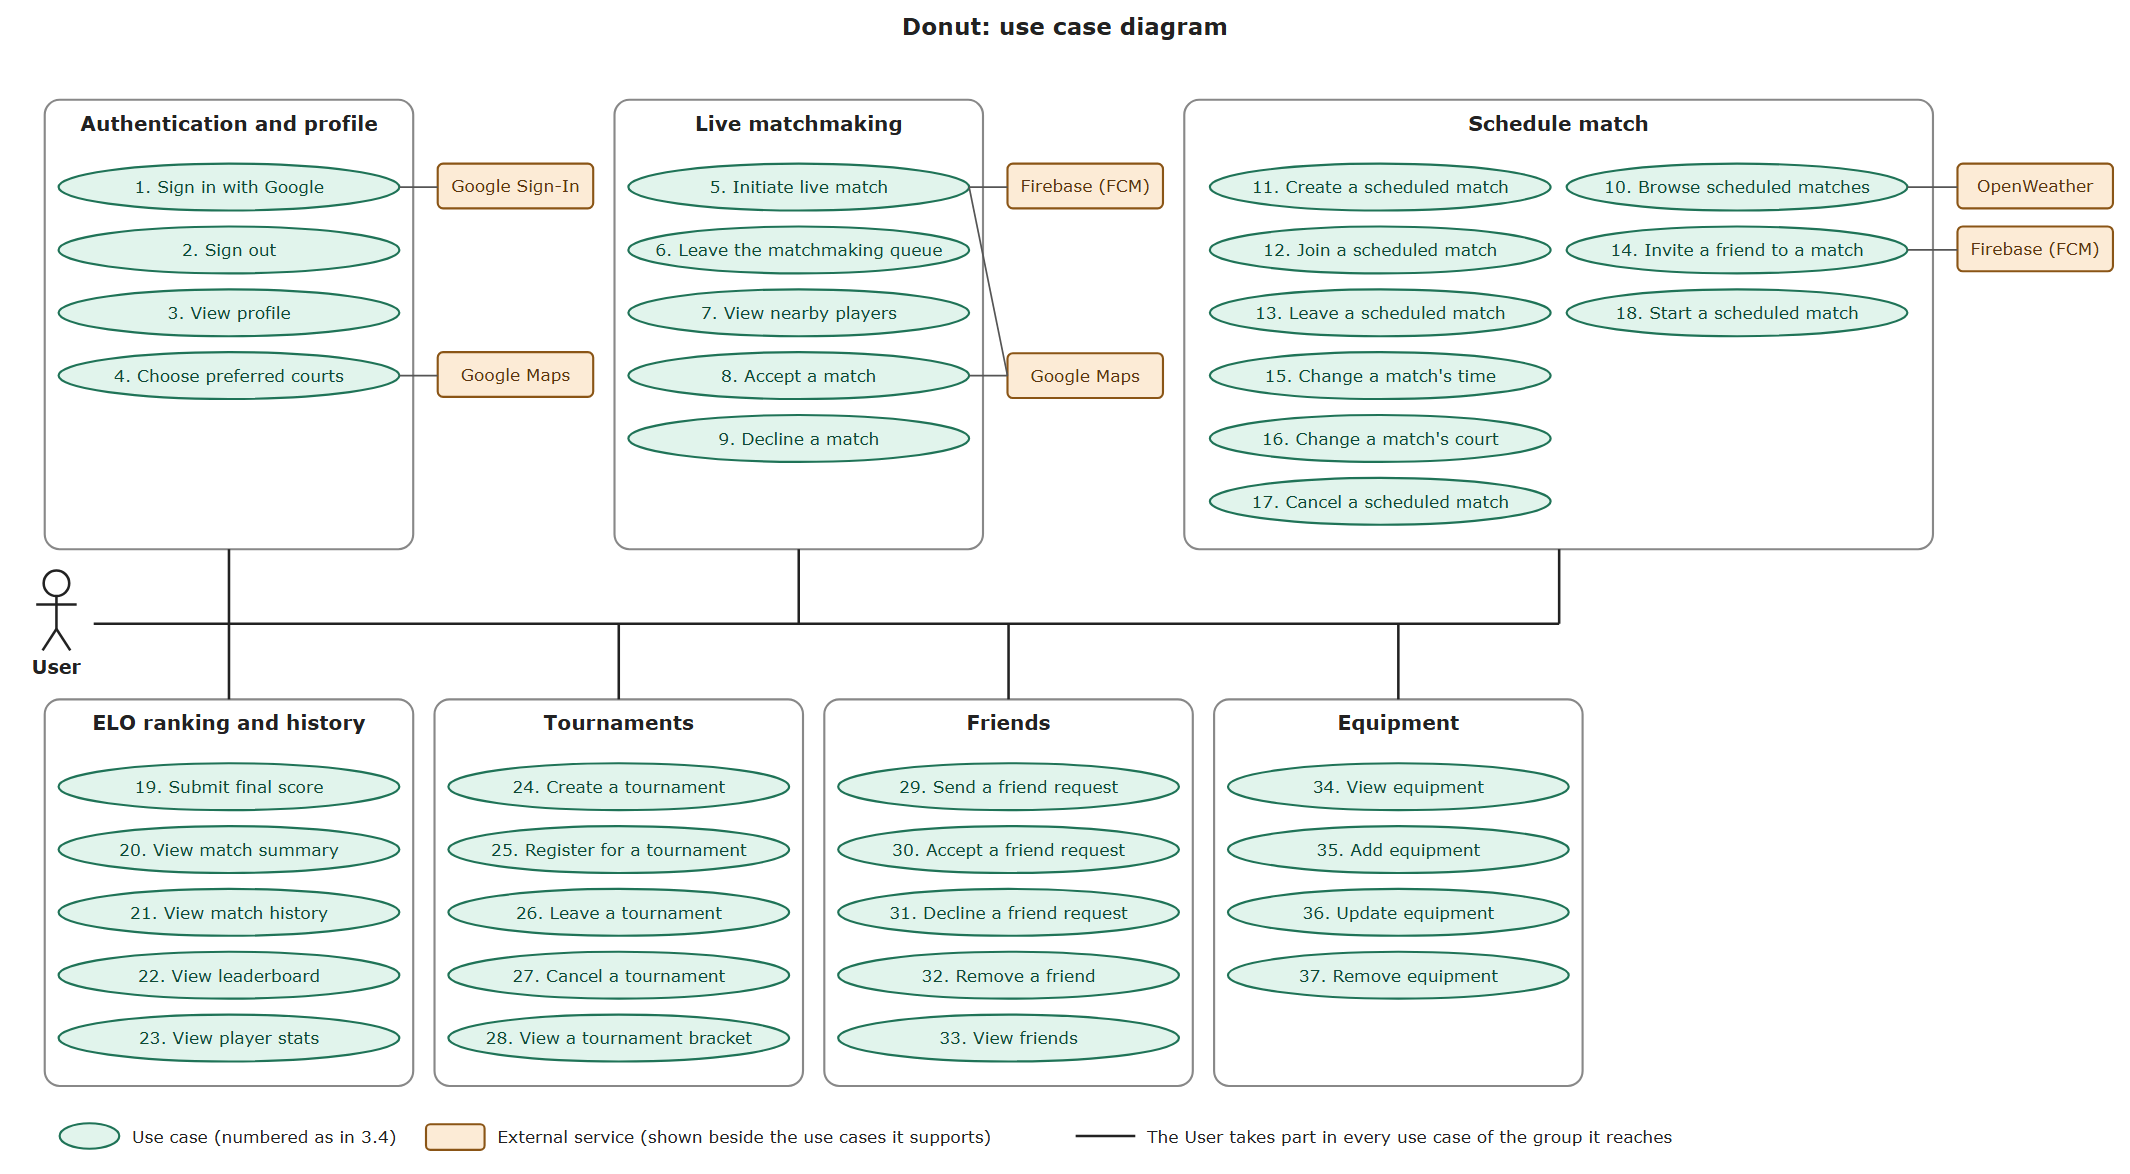
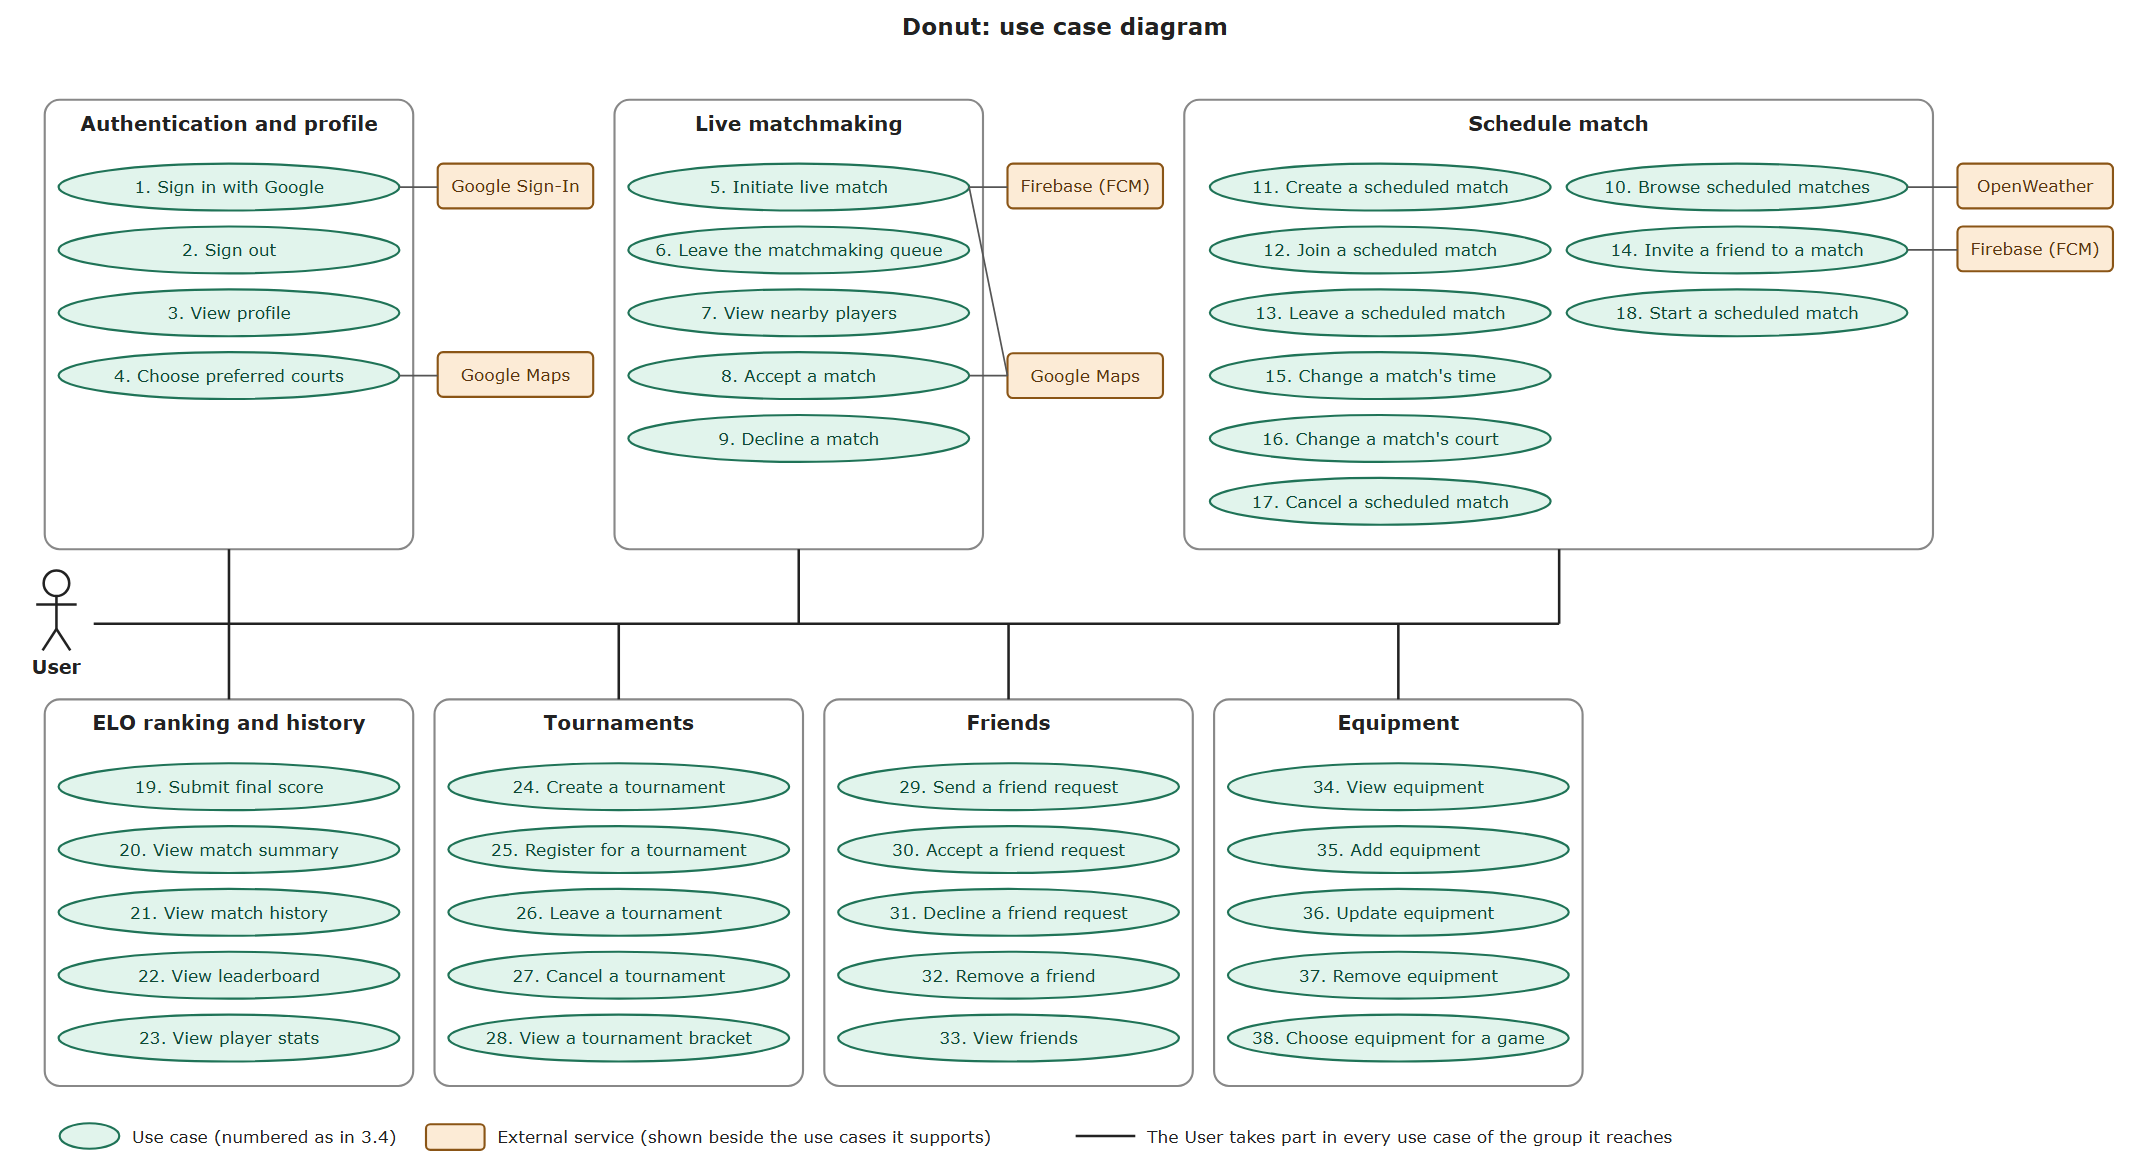
docs: equipment tracking
Requirements_and_Design.md: PUT /games/equipment (Games 14), equipment in GET /games, gamesUsed and hoursUsed, and use case 38 (Choose equipment for a game) in the list and the diagram. Testing.md: the new interface's tests and the moved line numbers.

Changed region(s): [[0.5577, 0.8586, 0.7437, 0.9199]]

diff --git a/documentation/Requirements_and_Design.md b/documentation/Requirements_and_Design.md
@@ -27,6 +27,7 @@
 | Nov 20, 2026 | 3.1, 3.2, 3.4, 3.5, 4.6 | Reviewer feedback on features and use cases: split use cases that had more than one goal, added the missing user-facing use cases (sign out, profile, leave the queue, decline a match, friends, equipment, match history, stats), moved system-only steps out of the use case list and gave every use case an active, user-focused name. Redrew the use case diagram. |
 | Nov 20, 2026 | 3.1, 3.2, 3.3, 3.4, 3.5, 3.7, 4.1, 4.3, 4.6, 4.7 | Every feature that was not yet built is now implemented, so the notes saying so are removed. Removed the live score feature, its use cases and its non-functional requirement: players report the score once after the game. Added a fifth formal use case, Join a scheduled match. |
 | Nov 20, 2026 | 3.1, 3.2, 3.3, 3.4, 3.5, 4.1, 4.3, 4.5, 4.6 | Removed Google Calendar and Edit profile (not built). Failure scenarios say what the user sees. Added `GET /user/:userId/photo`. Diagrams matched to the code, plus a Join a scheduled match diagram. Check-in replaced by "Start now" (Use Case 2, Start a scheduled match); players opt out by leaving or cancelling. Courts moved out of Users into their own component. Restored the score confirmation and `GET /matchmaking/events` text lost in a merge. |
+| Nov 21, 2026 | 3.1, 3.2, 3.4, 4.1, 4.2 | Equipment tracking: players choose the equipment they use in a game (`PUT /games/equipment`, use case 38), starting with their default items, and each item counts the games and hours it was used. |
 
 ---
 
@@ -55,7 +56,7 @@ After every player of a game confirms its final score, every player's ELO rating
 #### **Tournaments**
 Users create an 8-team single-elimination tournament (singles or doubles) that players register for from the feed. When it fills, the system forms and seeds the teams, draws the bracket and books the quarterfinals. Each confirmed score moves the winner on, up to the champion.
 
-Supporting features: **friends** (requests, friends list, adding players from a match summary), **match history** with a summary per game, and **equipment** tracking (rackets, balls, shoes, with maintenance dates).
+Supporting features: **friends** (requests, friends list, adding players from a match summary), **match history** with a summary per game, and **equipment** tracking (rackets, balls, shoes, with maintenance dates and how many games and hours each was used).
 
 **Project scope requirements:**
 - **External API**: Google Maps (picking courts), Google Places (picking where to play), OpenWeather (feed forecasts).
@@ -72,7 +73,7 @@ Use cases are numbered as in §3.4. The User takes part in every use case of eac
 2. **Google Sign-In**: authenticates players.
 3. **Google Maps Platform**: shows a matched game's court on a map, and Places looks up where a player wants to play.
 4. **Firebase Cloud Messaging**: delivers match notifications and game invites.
-5. **OpenWeather**: supplies forecasts for the feed.
+5. **OpenWeather**: supplies forecasts for the feed.
 
 ### **3.4. Use Case Description**
 Each use case is one goal of one user, named with an active verb. The numbers match the diagram in §3.2.
@@ -123,10 +124,11 @@ Each use case is one goal of one user, named with an active verb. The numbers ma
 33. **View friends**: The user views their friends and the game each one is playing.
 
 - Feature 7: Equipment
-34. **View equipment**: The user views their rackets, balls and shoes, with maintenance dates.
+34. **View equipment**: The user views their rackets, balls and shoes, with maintenance dates and how many games and hours each was used.
 35. **Add equipment**: The user adds an item and can make it their default.
 36. **Update equipment**: The user changes an item's name, default status or maintenance date.
 37. **Remove equipment**: The user retires an item.
+38. **Choose equipment for a game**: The user picks which of their items they use in a game; their default items are picked for them when they create or join it.
 
 **System steps (not use cases).** The user does not do these directly, so they are not in the diagram:
 - *Matchmaking* (part of use case 5): every 10 seconds, the system groups queued players who want a compatible format, are within 10 km of each other and have close ratings, books a game one hour later at a court near them and notifies everyone.
@@ -308,7 +310,7 @@ Every route except `POST /user/login`, `POST /user/refresh` and `POST /user/logo
         4. `PUT /user/me/fcm-token` with `{ token }` → `204` - E
             - **Purpose**: Registers the device that receives the caller's notifications.
         5. `GET /user/equipment` → `{ equipment }`, `POST /user/equipment` with `{ type, name, isDefault?, nextMaintenanceAt? }` → `201 { equipment }`, `PATCH /user/equipment/:equipmentId` → `{ equipment }`, `DELETE /user/equipment/:equipmentId` → `204` - E
-            - **Purpose**: The caller's equipment (`RACKET`, `BALLS`, `SHOES` or `OTHER`), default items first. Deleting retires the item. `404` "Equipment not found".
+            - **Purpose**: The caller's equipment (`RACKET`, `BALLS`, `SHOES` or `OTHER`), default items first. Each item has `gamesUsed` and `hoursUsed`, counted from completed games (see Games 14). Deleting retires the item. `404` "Equipment not found".
         6. `GET /user/me/preferred-courts` → `{ preferredCourts }`, `PUT` / `DELETE /user/me/preferred-courts/:courtId` → `204` - E
             - **Purpose**: The caller's preferred courts, used by matchmaking to pick a court. `404` if the court doesn't exist.
         7. `GET /user/:userId/photo` → `{ photoUrl }` - E
@@ -324,7 +326,7 @@ Every route except `POST /user/login`, `POST /user/refresh` and `POST /user/logo
         2. `GET /games/feed` → `{ games: FeedGame[] }` - E
             - **Purpose**: Scheduled games that are `OPEN` and haven't started, soonest first. A `FeedGame` is a `GameDetails` with a `forecast` (`{ at, temperature, description, icon, precipitationChance }`), or `null` if it is over 5 days away or OpenWeather fails.
         3. `GET /games` with `gameId` → `{ game: GameDetails }` - E
-            - **Purpose**: One game with its court, players (`{ id, username, name, rating, team, acceptedAt, scoreConfirmedAt, ratingBefore, ratingAfter }`), rounds, `scoreProposal` (the score waiting for confirmation, `{ rounds, proposedById, proposedAt }` with rounds shaped like the game's, or `null`), `tournament` (`{ id, name, round }`, or `null`) and `forecast`, like a `FeedGame`'s (`null` for a `COMPLETED` or `CANCELLED` game). `404` if not found.
+            - **Purpose**: One game with its court, players (`{ id, username, name, rating, team, acceptedAt, scoreConfirmedAt, ratingBefore, ratingAfter }`), rounds, `equipment` (the items players use, `{ id, userId, type, name }[]`), `scoreProposal` (the score waiting for confirmation, `{ rounds, proposedById, proposedAt }` with rounds shaped like the game's, or `null`), `tournament` (`{ id, name, round }`, or `null`) and `forecast`, like a `FeedGame`'s (`null` for a `COMPLETED` or `CANCELLED` game). `404` if not found.
         4. `GET /games/me` → `{ games }` - E
             - **Purpose**: The caller's `BOOKED` and `IN_PROGRESS` games and `OPEN` games that haven't started, soonest first, each with its `forecast` like a `FeedGame`.
         5. `GET /games/history` → `{ games }` - E
@@ -345,6 +347,8 @@ Every route except `POST /user/login`, `POST /user/refresh` and `POST /user/logo
             - **Purpose**: Score confirmation for an `IN_PROGRESS` game: the game only completes once every player agrees with its score. `/score` reports a score: it is saved in `score_proposals` with only the caller agreeing (`game_users.scoreConfirmedAt`), replacing any score waiting and resetting everyone else's agreement, and the other players get a push (`type: "scoreReported"`) that opens the game. Reporting the score already waiting counts as confirming it. `/score/confirm` agrees with the score waiting; its body is the score the caller saw, so a score changed since then is refused (`409 SCORE_CHANGED`, or `409 NO_SCORE_TO_CONFIRM` if none is waiting), and confirming twice is fine. Both run under the game's row lock, so two players can't both complete the game. When the last player agrees, the same transaction completes the game, saves the rounds, deletes the score waiting, updates ratings (`applyGameResult`) and, for a tournament game, advances the bracket (`advanceBracket`). Every step is pushed live to the game's stream. `400` for an invalid score (no sets, a tied set, a set past 6 games not won by 2 games or 7-6, or no winner), `403` if the caller isn't in the game, `409` if not started (`GAME_NOT_STARTED`), already completed, a team isn't full, or Postgres aborts the transaction on a deadlock.
         13. `GET /games/events` with `gameId`, `GET /games/feed/events` → Server-Sent Events - E
             - **Purpose**: Live updates, pushed instead of polled. Each stream sends the current state when it opens, then again after every change, plus a heartbeat every 25 s. A game's stream sends `gameUpdated` (`{ game }`, like `GET /games`) or `gameDeleted`; the Games tab's sends `feed` (games and tournaments open to join, the same for everyone) and `mine` (the caller's), each `{ games, tournaments }`. Services announce changes (`events/changes.ts`) and `live/live.ts` pushes them, loading nothing when no one is watching. A user has at most 10 streams open; past that their oldest is closed. The app keeps a stream open only while its screen is visible, and reconnects whenever one ends.
+        14. `PUT /games/equipment` with `{ gameId, equipmentIds }` → `204` - E
+            - **Purpose**: Replaces which of their own items the caller uses in a game; an empty list clears it. A player who creates or joins a game starts with their default items. When the game completes, each item used gets one more game and one more hour (`gamesUsed`, `hoursUsed`), in the same transaction. `400` for a repeated item or more than 20, `403` if the caller isn't in the game, `404` if an item isn't theirs or is retired, `409` once the game is completed or cancelled.
 3. **Matchmaking**
     - **Purpose**: The matchmaking queue, the matching algorithm, and the jobs that run it every 10 seconds and cancel unanswered matches every minute.
     - **Rationale**: Matching creates games without a request, so it runs on a timer outside the request path, where join requests can't race each other.
@@ -408,7 +412,7 @@ Every route except `POST /user/login`, `POST /user/refresh` and `POST /user/logo
 
 ### **4.2. Databases**
 1. **PostgreSQL (`donut`)**
-    - **Purpose**: Stores users, refresh tokens, courts, the matchmaking queue, games, their players (with ratings before and after, and when they confirmed the score), rounds, scores waiting for confirmation (`score_proposals`), equipment, friendships and tournaments (`backend/prisma/schema.prisma`).
+    - **Purpose**: Stores users, refresh tokens, courts, the matchmaking queue, games, their players (with ratings before and after, and when they confirmed the score), rounds, scores waiting for confirmation (`score_proposals`), equipment (with games and hours used) and which items are used in each game, friendships and tournaments (`backend/prisma/schema.prisma`).
     - **Rationale**: The data is relational, and a match or a final score (with ratings and the bracket) must be saved in one transaction. MongoDB was rejected because nothing is document-shaped and it would lose those transactions.
 
 ### **4.3. External Modules**

diff --git a/documentation/Testing.md b/documentation/Testing.md
@@ -22,6 +22,7 @@
 | 11-20-2026        | 2.1.1, 3.1            | Listed the live update streams and named Matchmaking as the fully tested component. Renumbered the NFRs to match Requirements_and_Design.md and removed the live score NFR. |
 | 11-20-2026        | 4.2.1                 | Added the failure scenarios of Use Case 4 to the end-to-end test, and `CreateGameViewModelTest` for the ones the UI can't cause. |
 | 11-20-2026        | 2.1.1                 | Added no-mock tests for the live update streams (`tests/no-mock/liveUpdates.test.ts`). |
+| 11-21-2026        | 2.1.1                 | Added `PUT /games/equipment`, with mocked and no-mock tests. |
 
 ---
 
@@ -60,6 +61,7 @@
 | **POST /games/invite**        | [`tests/no-mock/games.test.ts`]                      | [`tests/mock/games.matched.test.ts`]               | Game DB, Friendship DB, User DB, Firebase Cloud Messaging |
 | **PATCH /games/time**         | [`tests/no-mock/games.test.ts`]                      | [`tests/mock/games.edit.test.ts`]                  | Game DB                            |
 | **PATCH /games/location**     | [`tests/no-mock/games.test.ts`]                      | [`tests/mock/games.edit.test.ts`]                  | Game DB                            |
+| **PUT /games/equipment**     | [`tests/no-mock/gameEquipment.test.ts`]              | [`tests/mock/games.equipment.test.ts`], [`tests/mock/repositories.test.ts`] | Game DB, Equipment DB |
 | **POST /games/start**         | [`tests/no-mock/tournaments.test.ts`], [`tests/no-mock/games.test.ts`] | [`tests/mock/games.edit.test.ts`], [`tests/mock/repositories.test.ts`] | Game DB |
 | **POST /games/score**         | [`tests/no-mock/tournaments.test.ts`], [`tests/no-mock/playerStats.test.ts`], [`tests/no-mock/games.test.ts`] | [`tests/mock/games.score.test.ts`], [`tests/mock/repositories.test.ts`], [`tests/mock/bracket.repository.test.ts`] | Game DB, Tournament DB, Firebase Cloud Messaging |
 | **POST /games/score/confirm** | [`tests/no-mock/tournaments.test.ts`], [`tests/no-mock/playerStats.test.ts`], [`tests/no-mock/games.test.ts`] | [`tests/mock/games.score.test.ts`], [`tests/mock/repositories.test.ts`] | Game DB, Tournament DB |
@@ -123,8 +125,8 @@ Every file has 100% statement, function and line coverage. The branches left are
 | -------- | -------------------- | ----------------------- |
 | `events/eventStreams.ts` | 131: `this.streams.get(key) ?? []` | Only if every client of the key disconnects while its new state loads. `refresh` already returns when nobody is watching, so the gap is one database read. Nothing is written in that case, which is also what happens with an empty list. |
 | `external/weather.ts` | 113: the cache entry is no longer the one that failed | A failed forecast only leaves the cache alone if another request replaced its entry while it was failing. Entries are replaced after 10 minutes, and a request gives up after 2 seconds. |
-| `games/games.service.ts` | 211: `?? []` when the game is gone | Cancelling a game first checks it exists; this is for a game deleted between that check and the player lookup. |
-| `games/games.service.ts` | 576: `?? gameErrors.AlreadyStarted` | Only reached when `startBookedGame` started nothing although the game still looks startable when read again, which a single `UPDATE ... WHERE status = 'BOOKED'` can't do. The fallback keeps the error correct if it ever happens. |
+| `games/games.service.ts` | 230: `?? []` when the game is gone | Cancelling a game first checks it exists; this is for a game deleted between that check and the player lookup. |
+| `games/games.service.ts` | 622: `?? gameErrors.AlreadyStarted` | Only reached when `startBookedGame` started nothing although the game still looks startable when read again, which a single `UPDATE ... WHERE status = 'BOOKED'` can't do. The fallback keeps the error correct if it ever happens. |
 | `live/live.ts` | 101, 116: `?? []` when the game or tournament is gone | A push for a game or tournament deleted after the change was announced and before it was read. The players of a deleted game are passed with the change, so this only covers a delete racing the push. |
 | `matchmaking/matchmaking.service.ts` | 229: `locationsById.get(id) ?? []` | The matches are built from the same candidates the map is built from, so every matched player is in it. |
 | `tournaments/bracket.repository.ts` | 140: `membersBySeed.get(...) ?? []` | Every seed of a full bracket has a team; the map is filled from the same teams the slots are drawn from. |
@@ -289,6 +291,7 @@ These render one screen with injected data, with no backend or signed-in account
 [`tests/mock/matchmaking.test.ts`]: https://github.com/donut-cpen321/donut/blob/bfb755e442097a5c7e4fdfa2230cc42d006174a8/backend/tests/mock/matchmaking.test.ts
 [`tests/mock/queueEvents.test.ts`]: https://github.com/donut-cpen321/donut/blob/bfb755e442097a5c7e4fdfa2230cc42d006174a8/backend/tests/mock/queueEvents.test.ts
 [`tests/mock/gameEvents.test.ts`]: https://github.com/donut-cpen321/donut/blob/bfb755e442097a5c7e4fdfa2230cc42d006174a8/backend/tests/mock/gameEvents.test.ts
+[`tests/mock/games.equipment.test.ts`]: https://github.com/donut-cpen321/donut/blob/main/backend/tests/mock/games.equipment.test.ts
 [`tests/mock/liveLists.test.ts`]: https://github.com/donut-cpen321/donut/blob/bfb755e442097a5c7e4fdfa2230cc42d006174a8/backend/tests/mock/liveLists.test.ts
 [`tests/mock/friendEvents.test.ts`]: https://github.com/donut-cpen321/donut/blob/bfb755e442097a5c7e4fdfa2230cc42d006174a8/backend/tests/mock/friendEvents.test.ts
 [`tests/mock/live.test.ts`]: https://github.com/donut-cpen321/donut/blob/bfb755e442097a5c7e4fdfa2230cc42d006174a8/backend/tests/mock/live.test.ts
@@ -318,6 +321,7 @@ These render one screen with injected data, with no backend or signed-in account
 [`tests/no-mock/jobs.test.ts`]: https://github.com/donut-cpen321/donut/blob/bfb755e442097a5c7e4fdfa2230cc42d006174a8/backend/tests/no-mock/jobs.test.ts
 [`tests/no-mock/matchmaking.test.ts`]: https://github.com/donut-cpen321/donut/blob/bfb755e442097a5c7e4fdfa2230cc42d006174a8/backend/tests/no-mock/matchmaking.test.ts
 [`tests/no-mock/liveUpdates.test.ts`]: https://github.com/donut-cpen321/donut/blob/main/backend/tests/no-mock/liveUpdates.test.ts
+[`tests/no-mock/gameEquipment.test.ts`]: https://github.com/donut-cpen321/donut/blob/main/backend/tests/no-mock/gameEquipment.test.ts
 [`tests/no-mock/playerStats.test.ts`]: https://github.com/donut-cpen321/donut/blob/bfb755e442097a5c7e4fdfa2230cc42d006174a8/backend/tests/no-mock/playerStats.test.ts
 [`tests/no-mock/queue.test.ts`]: https://github.com/donut-cpen321/donut/blob/bfb755e442097a5c7e4fdfa2230cc42d006174a8/backend/tests/no-mock/queue.test.ts
 [`tests/no-mock/requireAuth.test.ts`]: https://github.com/donut-cpen321/donut/blob/bfb755e442097a5c7e4fdfa2230cc42d006174a8/backend/tests/no-mock/requireAuth.test.ts
